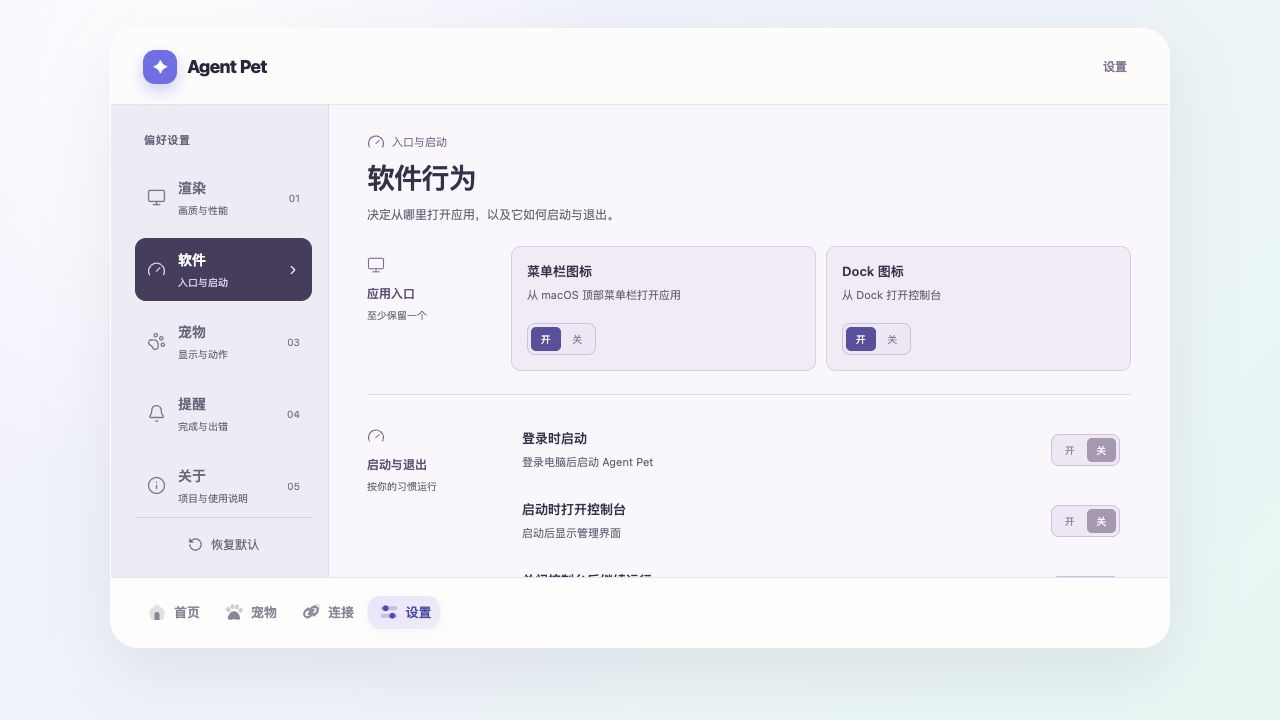
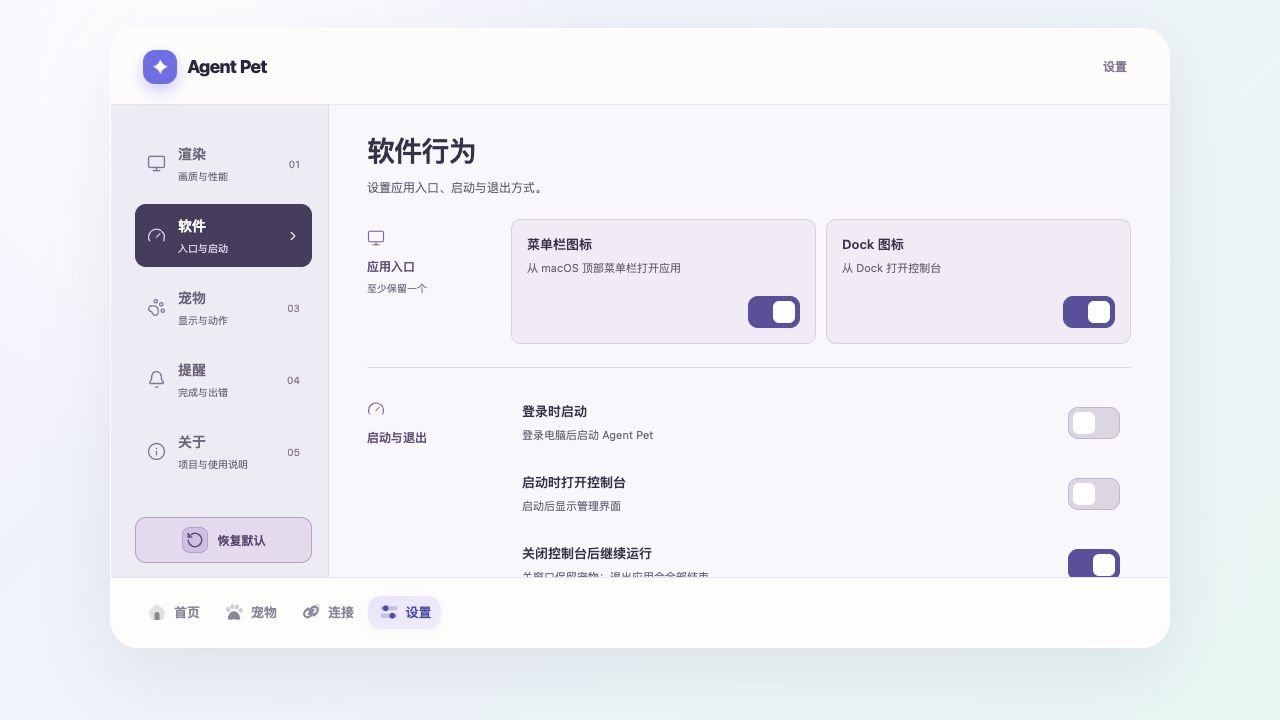
fix(prototype): simplify settings copy and controls

diff --git a/apps/desktop/prototype/settings-view.css b/apps/desktop/prototype/settings-view.css
@@ -2,21 +2,22 @@
 .preferences-page{--preferences-ink:#3f3653;--preferences-muted:#776d86;--preferences-accent:#6953aa;--preferences-line:#e4dfea;display:grid;grid-template-columns:218px minmax(0,1fr);flex:1;min-height:0;min-width:0;background:#faf8fc;color:var(--preferences-ink);overflow:hidden;font-size:14px}
 .preferences-page[hidden]{display:none!important}.preferences-page *{box-sizing:border-box}.preferences-page button,.preferences-page input{font:inherit}.preferences-page button{cursor:pointer;transition:background .16s,color .16s,border-color .16s,transform .16s}.preferences-page button:focus-visible,.preferences-page input:focus-visible,.preferences-page summary:focus-visible,.preferences-page a:focus-visible{outline:2px solid var(--preferences-accent);outline-offset:3px}
 .preferences-sidebar{display:flex;flex-direction:column;min-height:0;border-right:1px solid var(--preferences-line);background:#f0edf5;padding:27px 16px 14px 24px}
-.preferences-nav-label{font-size:11px;font-weight:650;letter-spacing:.06em;color:var(--preferences-muted);padding:0 9px;margin-bottom:18px}
+
 .preferences-nav{display:flex;flex-direction:column;gap:9px;min-height:0;overflow-y:auto;scrollbar-width:thin;padding:3px;margin:-3px}
 .preferences-nav button{display:flex;align-items:center;gap:12px;min-height:62px;text-align:left;padding:11px;border:1px solid transparent;border-radius:11px;background:transparent;color:var(--preferences-muted);flex:none}.preferences-nav button>svg:first-child{flex:none;color:#8e7c9e}.preferences-nav button>span:nth-child(2){flex:1;min-width:0}.preferences-nav strong{font-size:14px;font-weight:650;display:block}.preferences-nav small{font-size:10px;display:block;margin-top:5px;color:var(--preferences-muted)}.preferences-nav-number{font-size:10px;color:#91829f}.preferences-nav-arrow{display:none;flex:none}.preferences-nav button:hover{background:#e6dfed;color:var(--preferences-ink)}.preferences-nav button[aria-pressed=true]{background:#514368;border-color:#514368;color:#fff}.preferences-nav button[aria-pressed=true]>svg:first-child{color:#dcd0ec}.preferences-nav button[aria-pressed=true] small{color:#e1d8ed}.preferences-nav button[aria-pressed=true] .preferences-nav-number{display:none}.preferences-nav button[aria-pressed=true] .preferences-nav-arrow{display:block}
-.preferences-reset-trigger{display:flex;align-items:center;justify-content:center;gap:8px;border:0;border-top:1px solid #ded5e7;background:none;color:var(--preferences-muted);font-size:12px!important;min-height:46px;flex:none;margin-top:auto;padding:12px 5px 4px}.preferences-reset-trigger:hover{color:var(--preferences-accent)}
+.preferences-reset-trigger{display:flex;align-items:center;gap:10px;justify-content:center;min-height:46px;flex:none;margin-top:auto;padding:9px 12px;border:1px solid #bca9d1;border-radius:11px;background:#e8dff1;color:#634b7a;font-size:12px!important;font-weight:650!important}.preferences-reset-icon{display:grid;place-items:center;width:26px;height:26px;flex:none;border:1px solid #c1a9d5;border-radius:8px;background:#d7c5e8;color:#70508a}.preferences-reset-icon svg{transition:transform .3s ease}.preferences-reset-trigger:hover{background:#ded0ec;border-color:#9877b4;color:#513664}.preferences-reset-trigger:hover .preferences-reset-icon svg,.preferences-reset-trigger:focus-visible .preferences-reset-icon svg{transform:rotate(-40deg)}.preferences-reset-trigger:active{transform:translateY(1px)}
+
 .preferences-content{min-width:0;min-height:0;overflow-y:auto;overflow-x:hidden;padding:28px 38px 30px;overscroll-behavior:contain;scrollbar-width:thin;scrollbar-color:#ccc2da transparent;scrollbar-gutter:stable}
-.preferences-heading{margin:0 0 20px;max-width:800px}.preferences-heading-meta{display:flex;align-items:center;gap:7px;font-size:11px;color:#8b759d;margin-bottom:9px}.preferences-heading h1{margin:0;font-size:28px;letter-spacing:-.7px;font-weight:750;line-height:1.3}.preferences-heading>p{font-size:12px;line-height:1.7;color:var(--preferences-muted);margin:9px 0 0}.preferences-controls{max-width:800px}
-.render-presets{display:grid;grid-template-columns:repeat(3,minmax(0,1fr));gap:10px}
+.preferences-heading{margin:0 0 20px;max-width:800px}.preferences-heading h1{margin:0;font-size:28px;letter-spacing:-.7px;font-weight:750;line-height:1.3}.preferences-heading>p{font-size:12px;line-height:1.7;color:var(--preferences-muted);margin:9px 0 0}.preferences-controls{max-width:800px}
+.render-presets{margin-bottom:20px;display:grid;grid-template-columns:repeat(3,minmax(0,1fr));gap:10px}
 .render-presets>button{display:flex;flex-direction:column;align-items:flex-start;text-align:left;border:1px solid #d8cce5;border-radius:13px;padding:16px;background:#f2edf7;color:#6f587f;position:relative;min-width:0}.render-presets>button:nth-child(1){background:#edf1e9;color:#637456;border-color:#d6dfcf}.render-presets>button:nth-child(3){background:#eaf0f7;color:#627898;border-color:#d3deee}.render-presets>button:hover{border-color:#9a85b3;transform:translateY(-2px)}.render-presets>button:active{transform:translateY(0)}.render-presets>button[aria-pressed=true]{background:#514368;border-color:#514368;color:#fff}.render-preset-top{display:flex;align-items:center;justify-content:space-between;width:100%;margin-bottom:12px}.render-preset-selected{display:grid;place-items:center;width:18px;height:18px;border:1px solid currentColor;border-radius:50%;opacity:.45}.render-presets>button[aria-pressed=true] .render-preset-selected{opacity:1;background:#e9dcf9;color:#514368;border-color:#e9dcf9}.render-presets strong{font-size:17px;font-weight:650;letter-spacing:.02em}.render-preset-copy{font-size:11px;margin-top:5px;opacity:.9}.render-preset-stats{display:block;font-size:10px;margin-top:14px;white-space:nowrap}.render-preset-stats b{font-size:21px;font-weight:600;letter-spacing:-.6px;margin-right:3px}.render-preset-stats>span{margin-left:3px}
-.render-current{display:flex;align-items:center;gap:7px;font-size:11px;color:#766381;margin:12px 1px 15px}.render-current>span:last-child{color:var(--preferences-muted);margin-left:auto}.render-current-dot{width:5px;height:5px;border-radius:50%;background:#8d75a5;flex:none}
+
 .render-advanced{border:1px solid var(--preferences-line);border-radius:11px;background:#fff;margin-bottom:16px}.render-advanced summary{display:flex;align-items:center;justify-content:space-between;list-style:none;min-height:44px;padding:11px 15px;font-size:12px;font-weight:600;cursor:pointer;color:#705884}.render-advanced summary::-webkit-details-marker{display:none}.render-advanced summary svg{transition:transform .16s}.render-advanced[open] summary svg{transform:rotate(90deg)}.render-advanced>div{padding:2px 15px 16px}.render-advanced p{font-size:11px;line-height:1.8;color:var(--preferences-muted);margin:12px 0 0;max-width:600px}
 .preference-choice{display:flex;align-items:center;justify-content:space-between;gap:16px;padding:10px 0;font-size:12px}.preference-choice>[role=radiogroup]{display:flex;border:1px solid #d9d0e3;border-radius:9px;background:#f4eff8;padding:3px;gap:3px}.preference-choice button{display:flex;align-items:baseline;justify-content:center;gap:4px;background:none;border:1px solid transparent;border-radius:6px;padding:9px 13px;color:#8a759b;font-size:13px;min-width:65px}.preference-choice button small{font-size:9px}.preference-choice button[aria-checked=true]{background:#6953aa;color:#fff;border-color:#6953aa}.preference-choice button:hover{border-color:#bda9d0}
 .preference-group{display:grid;grid-template-columns:120px minmax(0,1fr);gap:24px;padding-top:22px;margin-top:23px;border-top:1px solid var(--preferences-line)}.preference-group:first-child{padding-top:0;margin-top:0;border:0}.preference-group>header{padding:10px 0;color:#8d769d}.preference-group h2{margin:8px 0 5px;font-size:12px;font-weight:650;color:#705783}.preference-group>header p{font-size:10px;line-height:1.7;margin:0;color:var(--preferences-muted)}.preference-group>div{min-width:0;display:grid;gap:4px}
-.preference-row{display:flex;align-items:center;justify-content:space-between;gap:18px;min-height:66px;border:1px solid transparent;border-radius:10px;background:none;padding:11px 10px;color:var(--preferences-ink);text-align:left;width:100%}.preference-row>span:first-child{display:grid;gap:6px;min-width:0}.preference-row strong{font-size:13px;font-weight:600;line-height:1.4}.preference-row small{font-size:11px;line-height:1.7;color:var(--preferences-muted)}.preference-row:hover:not(.is-disabled){background:#f0eaf6;border-color:#e4d8ed}.preference-row.is-disabled{cursor:default}.preference-row.is-disabled strong{color:#84758f}.preference-row.is-disabled .preference-toggle{opacity:.5}
-.preference-toggle{display:flex;flex:none;border:1px solid #d4c8df;border-radius:8px;padding:3px;gap:2px;background:#f1eaf6;width:69px;height:32px}.preference-toggle>button{display:grid;place-items:center;flex:1;min-width:0;border:0;background:none;padding:0;border-radius:5px;font-size:10px;color:#947fa7}.preference-toggle>button[aria-checked=true]{background:#6953aa;color:#fff}.preference-toggle>button:last-child[aria-checked=true]{background:#b0a2bc;color:#fff}.preference-row:active:not(.is-disabled) .preference-toggle{transform:scale(.96)}
-.preference-entry-pair{display:grid;grid-template-columns:1fr 1fr;gap:10px}.preference-entry-pair>.preference-row{flex-wrap:wrap;align-content:space-between;gap:16px;min-height:125px;border:1px solid #dfd5e8;background:#f3edf7;padding:15px}.preference-entry-pair>.preference-row>span:first-child{width:100%}.preference-entry-pair>.preference-row>span:last-child{margin-left:auto}.preference-entry-pair>.preference-row.is-disabled{background:#f3eff6}
+.preference-row{display:flex;align-items:center;justify-content:space-between;gap:18px;min-height:66px;border:1px solid transparent;border-radius:10px;background:none;padding:11px 10px;color:var(--preferences-ink);text-align:left;width:100%}.preference-row>span:first-child{display:grid;gap:6px;min-width:0}.preference-row strong{font-size:13px;font-weight:600;line-height:1.4}.preference-row small{font-size:11px;line-height:1.7;color:var(--preferences-muted)}.preference-row:hover:not(.is-disabled){background:#f0eaf6;border-color:#e4d8ed}.preference-row.is-disabled{cursor:default}.preference-row.is-disabled strong{color:#84758f}.preference-switch{display:flex;align-items:center;flex:none;width:52px;height:32px;padding:4px;border:1px solid #c9bdd7;border-radius:10px;background:#e1d9e9;color:var(--preferences-accent)}.preference-switch>span{display:block;width:22px;height:22px;border:1px solid #fff;border-radius:6px;background:#fff;transition:transform .18s ease}.preference-switch[aria-checked=true]{background:#6953aa;border-color:#6953aa}.preference-switch[aria-checked=true]>span{transform:translateX(20px)}.preference-switch:hover:not(:disabled){border-color:#8d74a8}.preference-switch:active:not(:disabled)>span{width:24px}.preference-switch[aria-checked=true]:active:not(:disabled)>span{transform:translateX(18px)}.preference-switch:disabled{opacity:.5;cursor:default}
+
+.preference-entry-pair{display:grid;grid-template-columns:1fr 1fr;gap:10px}.preference-entry-pair>.preference-row{flex-wrap:wrap;align-content:space-between;gap:16px;min-height:125px;border:1px solid #dfd5e8;background:#f3edf7;padding:15px}.preference-entry-pair>.preference-row>span:first-child{width:100%}.preference-entry-pair>.preference-row>.preference-switch{margin-left:auto}.preference-entry-pair>.preference-row.is-disabled{background:#f3eff6}
 .preference-size{display:grid;grid-template-columns:1fr auto;align-items:center;gap:17px 20px;padding:16px 20px 14px;border:1px solid #ded2e8;border-radius:12px;background:#f1eaf6;margin-bottom:25px}.preference-size label{font-size:14px;font-weight:650}.preference-size p{font-size:11px;color:var(--preferences-muted);margin:7px 0 0}.preference-size output{font-size:29px;font-weight:600;letter-spacing:-1px;color:#795b97;min-width:73px;text-align:right}.preference-size output small{font-size:13px;margin-left:3px;letter-spacing:0}.preference-size input{--range-progress:50%;grid-column:1/-1;appearance:none;-webkit-appearance:none;background:none;width:100%;height:25px;cursor:pointer;margin:0}.preference-size input::-webkit-slider-runnable-track{height:5px;border-radius:5px;background:linear-gradient(to right,#9274b1 0,#9274b1 var(--range-progress),#d7c9e4 var(--range-progress),#d7c9e4 100%)}.preference-size input::-webkit-slider-thumb{appearance:none;-webkit-appearance:none;width:18px;height:18px;margin-top:-6px;border:3px solid #faf8fc;border-radius:5px;background:#795b97;outline:1px solid #a58bba;transform:rotate(45deg)}.preference-size input::-moz-range-track{height:5px;background:#d7c9e4;border-radius:5px}.preference-size input::-moz-range-progress{height:5px;background:#9274b1}.preference-size input::-moz-range-thumb{width:13px;height:13px;border:3px solid #faf8fc;background:#795b97;border-radius:5px}.preference-scale{grid-column:1/-1;display:flex;justify-content:space-between;font-size:10px;color:#8b739e;margin-top:-9px}
 .preference-bubble-note{display:flex;align-items:center;gap:15px;border:1px solid #ddd1e8;border-radius:12px;background:#f0e9f5;padding:19px 20px;margin-bottom:25px;color:#8e6fa1}.preference-bubble-note>svg{flex:none}.preference-bubble-note>div{flex:1;min-width:0}.preference-bubble-note strong{font-size:13px;color:#715387;font-weight:650}.preference-bubble-note p{font-size:11px;color:var(--preferences-muted);line-height:1.7;margin:6px 0 0}.preference-bubble-note.is-muted{background:#f5eee7;border-color:#e6d7c5;color:#a58057}.preference-bubble-note.is-muted strong{color:#8b6841}.preference-bubble-note button{display:flex;align-items:center;gap:6px;flex:none;min-height:40px;padding:8px 10px;border:1px solid #cbbbce;background:#fff;border-radius:9px;color:#73558b;font-size:11px}
 .preferences-notice{display:flex;gap:7px;align-items:center;color:#657c69;font-size:12px;margin-top:24px}
@@ -24,10 +25,10 @@
 /* About remains a readable article, not a campaign or a desktop preview. */
 .preferences-about{max-width:720px;padding:0 0 28px;color:var(--preferences-ink);font-size:14px;line-height:1.85;overflow-wrap:anywhere}.about-document-header{border-bottom:1px solid var(--preferences-line);padding-bottom:23px;margin-bottom:28px}.about-document-header h1{font-size:32px;font-weight:750;line-height:1.2;letter-spacing:-.8px;margin:0 0 14px}.about-document-meta{display:flex;align-items:center;flex-wrap:wrap;gap:10px;font-size:11px;color:var(--preferences-muted);margin:0 0 17px}.about-version{border:1px solid #dacde4;border-radius:6px;padding:3px 7px;background:#eee5f6;color:#795c91;line-height:1.5;font-weight:600}.about-document-lead{font-size:15px;line-height:1.75;color:#6f5d7d;margin:0}.preferences-about section{margin-top:28px}.preferences-about h2{font-size:18px;font-weight:650;line-height:1.5;letter-spacing:-.2px;margin:0 0 12px;color:#655075}.preferences-about section p{margin:12px 0;color:#77687f}.preferences-about ul,.preferences-about ol{padding-left:22px;margin:14px 0;color:#77687f}.preferences-about li{padding-left:3px;margin:9px 0}.preferences-about strong{color:#665076;font-weight:600}.about-document-links a{display:inline-flex;align-items:center;gap:10px;color:var(--preferences-accent);text-decoration:underline;text-underline-offset:4px;min-height:40px;font-weight:600}.about-document-links a:hover{color:#4e337a}.about-document-links .ui-icon{width:15px;height:15px}.about-document-links p{font-size:12px}
 @media(max-width:1050px){.preferences-page{grid-template-columns:190px minmax(0,1fr)}.preferences-sidebar{padding-left:16px}.preferences-content{padding:26px}.preferences-nav button{gap:10px}.preferences-nav-number{display:none}.preference-group{grid-template-columns:94px minmax(0,1fr);gap:12px}.preference-choice button{padding:9px;min-width:55px}.render-presets>button{padding:13px}.preference-entry-pair{grid-template-columns:1fr}.preference-entry-pair>.preference-row{flex-wrap:nowrap;min-height:74px;gap:12px}.preference-entry-pair>.preference-row>span:first-child{width:auto}}
-@media(max-width:700px){.preferences-page{display:flex;flex-direction:column}.preferences-sidebar{flex:none;display:block;padding:12px 16px 0;background:#f0edf5;border-right:0;border-bottom:1px solid var(--preferences-line)}.preferences-nav-label{display:none}.preferences-nav{flex-direction:row;overflow-x:auto;overflow-y:hidden;gap:4px;padding:3px 0 10px;margin:0}.preferences-nav button{min-height:44px;padding:9px 5px;flex:1 1 0;min-width:0;justify-content:center;gap:5px;border-radius:9px}.preferences-nav small,.preferences-nav-number,.preferences-nav-arrow,.preferences-nav button[aria-pressed=true] .preferences-nav-arrow{display:none}.preferences-nav strong{font-size:12px}.preferences-nav button>svg:first-child{width:14px;height:14px}.preferences-reset-trigger{position:absolute;right:18px;bottom:11px;z-index:1;font-size:10px!important;border:1px solid #dfd3e7;border-radius:8px;min-height:30px;padding:6px 8px;background:#faf8fc;margin:0}.preferences-page{position:relative}.preferences-content{flex:1;padding:22px 20px 54px}.preferences-heading{margin-bottom:23px}.preferences-heading h1{font-size:25px}.preferences-heading>p{font-size:12px}.render-presets{gap:7px}.render-presets>button{padding:12px 10px}.render-preset-top{margin-bottom:16px}.render-preset-top>svg{width:20px;height:20px}.render-presets strong{font-size:15px}.render-preset-copy{font-size:10px}.render-preset-stats{font-size:8px;margin-top:17px}.render-preset-stats b{font-size:19px}.render-preset-stats>span{margin-left:0}.render-current{flex-wrap:wrap;font-size:10px;margin-bottom:20px}.render-current>span:last-child{font-size:10px}.preference-group{grid-template-columns:1fr;gap:8px;margin-top:23px;padding-top:20px}.preference-group>header{display:flex;align-items:center;gap:7px;padding:0 0 4px}.preference-group h2{margin:0;font-size:12px}.preference-group>header p{margin-left:auto;font-size:10px}.preference-group>header svg{width:16px;height:16px}.preference-row{padding:11px 0;min-height:72px;gap:12px}.preference-row strong{font-size:13px}.preference-row small{font-size:11px}.preference-entry-pair{grid-template-columns:1fr 1fr}.preference-entry-pair>.preference-row{flex-wrap:wrap;padding:13px;min-height:150px}.preference-entry-pair>.preference-row>span:first-child{width:100%}.preference-entry-pair>.preference-row>span:last-child{margin-top:auto}.preference-choice{flex-wrap:wrap;gap:10px}.preference-choice>[role=radiogroup]{width:100%}.preference-choice button{flex:1}.preference-bubble-note{flex-wrap:wrap;padding:16px}.preference-bubble-note button{margin-left:36px}.preference-size{padding:16px;margin-bottom:24px}.preferences-about{font-size:13px}.about-document-header h1{font-size:29px}.about-document-lead{font-size:14px}}
-@media(min-width:701px) and (max-height:650px){.preferences-sidebar{padding-top:18px}.preferences-nav-label{margin-bottom:12px}.preferences-nav{gap:6px}.preferences-nav button{min-height:52px;padding:9px}.preferences-content{padding-top:22px}.preferences-heading{margin-bottom:21px}}
+@media(max-width:700px){.preferences-page{display:flex;flex-direction:column}.preferences-sidebar{flex:none;display:flex;flex-direction:row;align-items:flex-start;gap:6px;padding:12px 16px 0;background:#f0edf5;border-right:0;border-bottom:1px solid var(--preferences-line)}.preferences-nav{flex:1;min-width:0;flex-direction:row;overflow-x:auto;overflow-y:hidden;gap:4px;padding:3px 0 10px;margin:0}.preferences-nav button{min-height:44px;padding:9px 4px;flex:1 1 0;min-width:0;justify-content:center;gap:5px;border-radius:9px}.preferences-nav small,.preferences-nav-number,.preferences-nav-arrow,.preferences-nav button[aria-pressed=true] .preferences-nav-arrow{display:none}.preferences-nav strong{font-size:12px}.preferences-nav button>svg:first-child{width:14px;height:14px}.preferences-reset-trigger{position:static;align-self:flex-start;width:44px;height:44px;flex:none;border:1px solid #bca9d1;border-radius:10px;min-height:44px;padding:0;background:#e8dff1;margin:3px 0 10px}.preferences-reset-trigger>span:last-child{display:none}.preferences-page{position:relative}.preferences-content{flex:1;padding:22px 20px 54px}.preferences-heading{margin-bottom:20px}.preferences-heading h1{font-size:25px}.preferences-heading>p{font-size:12px}.render-presets{gap:7px;margin-bottom:16px}.render-presets>button{padding:12px 10px}.render-preset-top{margin-bottom:10px}.render-preset-top>svg{width:20px;height:20px}.render-presets strong{font-size:15px}.render-preset-copy{font-size:10px}.render-preset-stats{font-size:8px;margin-top:12px}.render-preset-stats b{font-size:19px}.render-preset-stats>span{margin-left:0}.preference-group{grid-template-columns:1fr;gap:8px;margin-top:23px;padding-top:20px}.preference-group>header{display:flex;align-items:center;gap:7px;padding:0 0 4px}.preference-group h2{margin:0;font-size:12px}.preference-group>header p{margin-left:auto;font-size:10px}.preference-group>header svg{width:16px;height:16px}.preference-row{padding:11px 0;min-height:72px;gap:12px}.preference-row strong{font-size:13px}.preference-row small{font-size:11px}.preference-entry-pair{grid-template-columns:1fr 1fr}.preference-entry-pair>.preference-row{flex-wrap:wrap;padding:13px;min-height:150px}.preference-entry-pair>.preference-row>span:first-child{width:100%}.preference-entry-pair>.preference-row>.preference-switch{margin-top:auto}.preference-choice{flex-wrap:wrap;gap:10px}.preference-choice>[role=radiogroup]{width:100%}.preference-choice button{flex:1}.preference-bubble-note{flex-wrap:wrap;padding:16px}.preference-bubble-note button{margin-left:36px}.preference-size{padding:16px;margin-bottom:24px}.preferences-about{font-size:13px}.about-document-header h1{font-size:29px}.about-document-lead{font-size:14px}}
+@media(min-width:701px) and (max-height:650px){.preferences-sidebar{padding-top:18px}.preferences-nav{gap:6px}.preferences-nav button{min-height:52px;padding:9px}.preferences-content{padding-top:22px}.preferences-heading{margin-bottom:21px}}
 @media(prefers-reduced-motion:reduce){.preferences-page *{transition:none!important}}
-@media(forced-colors:active){.preferences-page,.preferences-sidebar,.preferences-content,.preferences-reset-dialog{background:Canvas;color:CanvasText}.preferences-page button,.preference-toggle,.preference-size,.render-advanced{border:1px solid ButtonText;background:Canvas;color:CanvasText}.preferences-nav button[aria-pressed=true],.render-presets>button[aria-pressed=true],.preference-choice button[aria-checked=true],.preference-toggle>button[aria-checked=true]{background:Highlight;color:HighlightText}.preferences-page p,.preferences-page small,.preferences-page strong{color:CanvasText}.preference-size input{appearance:auto;-webkit-appearance:auto;accent-color:Highlight}}
+@media(forced-colors:active){.preferences-page,.preferences-sidebar,.preferences-content,.preferences-reset-dialog{background:Canvas;color:CanvasText}.preferences-page button,.preference-switch,.preference-size,.render-advanced{border:1px solid ButtonText;background:Canvas;color:CanvasText}.preferences-nav button[aria-pressed=true],.render-presets>button[aria-pressed=true],.preference-choice button[aria-checked=true],.preference-switch[aria-checked=true]{background:Highlight;color:HighlightText}.preferences-page p,.preferences-page small,.preferences-page strong{color:CanvasText}.preference-size input{appearance:auto;-webkit-appearance:auto;accent-color:Highlight}}
 /* Preserve the existing short-window frame behavior. */
 @media(max-height:700px){.prototype-page:has(.preferences-page:not([hidden])){padding:28px}.game-shell:has(.preferences-page:not([hidden])){height:calc(100dvh - 56px)}}
 @media(max-height:700px) and (max-width:720px){.prototype-page:has(.preferences-page:not([hidden])){padding:12px}.game-shell:has(.preferences-page:not([hidden])){height:calc(100dvh - 24px)}}
@@ -35,3 +36,8 @@
 .render-advanced+.preference-group{margin-top:0;padding-top:12px}
 
 @media(max-width:360px){.preferences-nav button>svg:first-child{display:none}}
+
+@media(max-width:700px){.preferences-reset-trigger{gap:0}.preferences-reset-icon{width:26px;height:26px;background:none;border:0}.preferences-reset-icon svg{width:15px;height:15px}}
+@media(forced-colors:active){.preference-switch>span,.preferences-reset-icon{background:Canvas;border:1px solid ButtonText;color:ButtonText}}
+
+@media(max-width:700px){.preferences-page[data-section=render] .preference-row{min-height:60px}}

diff --git a/apps/desktop/prototype/settings-view.tsx b/apps/desktop/prototype/settings-view.tsx
@@ -5,12 +5,12 @@ import { trapMenuFocus } from './menu-components.js';
 import { Icon } from './components/icons.js';
 import './settings-view.css';
 declare const __DESKTOP_VERSION__:string;
-const sections=[{id:'render',label:'渲染',title:'场景渲染',copy:'在流畅、清晰和低耗电之间，找到适合你的选择。',detail:'画质与性能',icon:Monitor},{id:'app',label:'软件',title:'软件行为',copy:'决定从哪里打开应用，以及它如何启动与退出。',detail:'入口与启动',icon:Gauge},{id:'pet',label:'宠物',title:'桌面宠物',copy:'调整小伙伴在桌面上的大小、出现方式和反馈。',detail:'显示与动作',icon:PawPrint},{id:'reminders',label:'提醒',title:'任务提醒',copy:'选择哪些任务结果需要小伙伴告诉你。',detail:'完成与出错',icon:Bell},{id:'about',label:'关于',title:'关于 Agent Pet',copy:'',detail:'项目与使用说明',icon:Info}] as const;
+const sections=[{id:'render',label:'渲染',title:'场景渲染',copy:'选择画质档位，或单独调整帧率与清晰度。',detail:'画质与性能',icon:Monitor},{id:'app',label:'软件',title:'软件行为',copy:'设置应用入口、启动与退出方式。',detail:'入口与启动',icon:Gauge},{id:'pet',label:'宠物',title:'桌面宠物',copy:'调整宠物大小、显示方式和动画。',detail:'显示与动作',icon:PawPrint},{id:'reminders',label:'提醒',title:'任务提醒',copy:'选择需要显示的任务提醒。',detail:'完成与出错',icon:Bell},{id:'about',label:'关于',title:'关于 Agent Pet',copy:'',detail:'项目与使用说明',icon:Info}] as const;
 type Section=typeof sections[number]['id'];
 const defaults={visible:true,size:100,bubbles:true,reduced:false,completed:true,error:true,login:false,console:false,tray:true,dock:true,background:true,offline:true,names:true,topmost:true,fps:60,resolution:100,pauseHidden:true};
 type Preferences=typeof defaults;
 type BooleanKey={[K in keyof Preferences]:Preferences[K] extends boolean?K:never}[keyof Preferences];
-const presets=[{name:'省电',fps:30,resolution:75,copy:'轻量陪伴',icon:Leaf},{name:'均衡',fps:60,resolution:100,copy:'日常推荐',icon:Gauge},{name:'清晰',fps:60,resolution:150,copy:'细节优先',icon:Sparkles}] as const;
+const presets=[{name:'省电',fps:30,resolution:75,copy:'减少耗电',icon:Leaf},{name:'均衡',fps:60,resolution:100,copy:'日常推荐',icon:Gauge},{name:'清晰',fps:60,resolution:150,copy:'细节优先',icon:Sparkles}] as const;
 export function SettingsView({visible}:{visible:boolean}) {
  const scrollArea=useRef<HTMLDivElement>(null);const dialog=useRef<HTMLDialogElement>(null);const resetTrigger=useRef<HTMLButtonElement>(null);
  const [section,setSection]=useState<Section>('render');const [values,setValues]=useState(defaults);const [resetting,setResetting]=useState(false);const [notice,setNotice]=useState('');
@@ -22,28 +22,28 @@ export function SettingsView({visible}:{visible:boolean}) {
  function toggle(key:BooleanKey,title:string,copy:string,disabled=false){return <PreferenceSwitch title={title} copy={copy} checked={values[key]} disabled={disabled} onChange={()=>update(key,!values[key])}/>;}
  function chooseSection(value:Section,button:HTMLButtonElement){setSection(value);setNotice('');scrollArea.current?.scrollTo({top:0});const nav=button.parentElement;if(nav){const item=button.getBoundingClientRect(),bounds=nav.getBoundingClientRect();if(item.top<bounds.top)nav.scrollTop+=item.top-bounds.top;else if(item.bottom>bounds.bottom)nav.scrollTop+=item.bottom-bounds.bottom;if(item.left<bounds.left)nav.scrollLeft+=item.left-bounds.left;else if(item.right>bounds.right)nav.scrollLeft+=item.right-bounds.right;}}
  return <section hidden={!visible} className="preferences-page" aria-label="应用偏好" data-section={section} onKeyDown={e=>{if(e.key.startsWith('Arrow'))e.stopPropagation();}}>
-  <aside className="preferences-sidebar"><span className="preferences-nav-label">偏好设置</span><nav className="preferences-nav" aria-label="设置分类">{sections.map((item,i)=>{const Glyph=item.icon;return <button key={item.id} aria-pressed={section===item.id} onClick={e=>chooseSection(item.id,e.currentTarget)}><Glyph size={19} strokeWidth={1.7}/><span><strong>{item.label}</strong><small>{item.detail}</small></span><span className="preferences-nav-number" aria-hidden="true">{String(i+1).padStart(2,'0')}</span><ChevronRight size={14} className="preferences-nav-arrow"/></button>;})}</nav><button ref={resetTrigger} className="preferences-reset-trigger" onClick={()=>setResetting(true)}><RotateCcw size={15}/>恢复默认</button></aside>
+  <aside className="preferences-sidebar"><nav className="preferences-nav" aria-label="设置分类">{sections.map((item,i)=>{const Glyph=item.icon;return <button key={item.id} aria-pressed={section===item.id} onClick={e=>chooseSection(item.id,e.currentTarget)}><Glyph size={19} strokeWidth={1.7}/><span><strong>{item.label}</strong><small>{item.detail}</small></span><span className="preferences-nav-number" aria-hidden="true">{String(i+1).padStart(2,'0')}</span><ChevronRight size={14} className="preferences-nav-arrow"/></button>;})}</nav><button ref={resetTrigger} className="preferences-reset-trigger" aria-label="恢复默认" title="恢复默认" onClick={()=>setResetting(true)}><span className="preferences-reset-icon" aria-hidden="true"><RotateCcw size={18}/></span><span>恢复默认</span></button></aside>
   <div ref={scrollArea} className="preferences-content">
-   {section!=='about'&&<header className="preferences-heading"><div className="preferences-heading-meta"><selected.icon size={18} strokeWidth={1.6}/><span>{selected.detail}</span></div><h1>{selected.title}</h1><p>{selected.copy}</p></header>}
+   {section!=='about'&&<header className="preferences-heading"><h1>{selected.title}</h1><p>{selected.copy}</p></header>}
    {section==='about'?<article className="preferences-about" aria-label="关于 Agent Pet"><header className="about-document-header"><h1>Agent Pet</h1><p className="about-document-meta"><span className="about-version">版本 {__DESKTOP_VERSION__}</span><span aria-hidden="true">·</span>桌面宠物项目</p><p className="about-document-lead">通过 3D 宠物的动作，观察 AI Agent 的工作状态。</p></header><section><h2>项目简介</h2><p>Agent Pet 是一个运行在本机的桌面宠物项目。当 Agent 工作、完成任务或遇到错误时，宠物会用不同的状态作出反馈。</p><p>它的目标是让桌面多一个有趣的小伙伴，也让你更容易知道 Agent 是否需要关注。</p></section><section><h2>当前进展</h2><p>目前以 <strong>macOS</strong> 和 <strong>pi</strong> 的本机接入为起点。其他 Agent 的支持正在规划中，项目不会只围绕 pi 设计。</p><ul><li>连接配置：管理本机 Agent 的配置位置与名称。</li><li>宠物展示：用形象与动画表达任务状态。</li><li>后续方向：更多 Agent、可导入的宠物，以及更完整的场景交互。</li></ul></section><section><h2>使用方式</h2><ol><li><strong>配置连接。</strong> 在连接页添加 Agent，检查配置是否可用。</li><li><strong>选择宠物。</strong> 为 Agent 选择使用的形象。</li><li><strong>调整偏好。</strong> 在设置中选择显示、提醒和运行方式。</li></ol><p>设计上尽量减少专业操作，让没有技术背景的人也能轻松使用。</p></section><section><h2>数据与隐私</h2><p>项目观察 Agent 的名称与状态，不读取对话正文，也不代替你启动、审批或控制 Agent。</p></section><section className="about-document-links"><h2>项目链接</h2><a href="https://github.com/Gogo-Bytes/agent-pet" target="_blank" rel="noopener noreferrer">Gogo-Bytes / agent-pet<Icon name="right"/></a><p>源码、项目文档与问题反馈都在 GitHub 仓库中。</p></section></article>:<div className="preferences-controls">
     {section==='render'&&<>
      <div className="render-presets" role="group" aria-label="画质档位">{presets.map(item=>{const Glyph=item.icon;return <button key={item.name} aria-pressed={preset===item} onClick={()=>{setNotice('');setValues(current=>({...current,fps:item.fps,resolution:item.resolution}));}}><span className="render-preset-top"><Glyph size={23} strokeWidth={1.5}/><span className="render-preset-selected">{preset===item?<Check size={14}/>:null}</span></span><strong>{item.name}</strong><span className="render-preset-copy">{item.copy}</span><span className="render-preset-stats"><b>{item.fps}</b> FPS <span>· {item.resolution}%</span></span></button>;})}</div>
-     <div className="render-current" role="status"><span className="render-current-dot"/>{preset?.name??'自定义'}<span>{values.fps} FPS / {values.resolution}% 清晰度</span></div>
+
      <details className="render-advanced"><summary>精细调整<ChevronRight size={16}/></summary><div><MenuChoice label="帧率上限" values={[30,60,120]} value={values.fps} suffix="FPS" onChange={value=>update('fps',value)}/><MenuChoice label="渲染清晰度" values={[75,100,150]} value={values.resolution} suffix="%" onChange={value=>update('resolution',value)}/><p>更高的帧率和清晰度会增加耗电与发热。清晰度不改变视角或窗口大小。</p></div></details>
-     <MenuGroup title="资源使用" copy="让陪伴轻一些" icon={Leaf}>{toggle('pauseHidden','隐藏时暂停渲染','宠物隐藏或场景不可见时减少资源占用')}</MenuGroup>
+     <MenuGroup title="资源使用" icon={Leaf}>{toggle('pauseHidden','隐藏时暂停渲染','宠物隐藏或场景不可见时减少资源占用')}</MenuGroup>
     </>}
-    {section==='app'&&<><MenuGroup title="应用入口" copy="至少保留一个" icon={Monitor}><div className="preference-entry-pair">{toggle('tray','菜单栏图标',!values.dock?'Dock 已隐藏，保留此入口':'从 macOS 顶部菜单栏打开应用',!values.dock)}{toggle('dock','Dock 图标',!values.tray?'菜单栏已隐藏，保留此入口':'从 Dock 打开控制台',!values.tray)}</div></MenuGroup><MenuGroup title="启动与退出" copy="按你的习惯运行" icon={Gauge}>{toggle('login','登录时启动','登录电脑后启动 Agent Pet')}{toggle('console','启动时打开控制台','启动后显示管理界面')}{toggle('background','关闭控制台后继续运行',values.background?'关窗口保留宠物；退出应用会全部结束':'关闭窗口时，应用和宠物一起退出')}</MenuGroup></>}
-    {section==='pet'&&<><div className="preference-size"><div><label htmlFor="preference-size">宠物大小</label><p>调整桌面上宠物的显示比例</p></div><output htmlFor="preference-size">{values.size}<small>%</small></output><input id="preference-size" type="range" min="60" max="140" step="5" value={values.size} style={{'--range-progress':`${(values.size-60)/80*100}%`} as CSSProperties} onChange={e=>update('size',Number(e.target.value))}/><div className="preference-scale"><span>60% · 小</span><span>100%</span><span>140% · 大</span></div></div><MenuGroup title="桌面显示" copy="出现与层级" icon={PawPrint}>{toggle('visible','宠物常驻桌面','关闭后可从应用入口重新显示')}{toggle('offline','Agent 未启动时显示',values.visible?'没有 Agent 运行时，也留在桌面':'开启“宠物常驻桌面”后生效',!values.visible)}{toggle('names','显示宠物名称','在宠物旁显示名称')}{toggle('topmost','始终置顶','显示在其他窗口上方')}</MenuGroup><MenuGroup title="动作与气泡" copy="轻松的反馈" icon={Sparkles}>{toggle('bubbles','显示气泡',values.bubbles?'提醒通过宠物气泡显示':'任务提醒暂停显示，偏好仍会保留')}{toggle('reduced','减少动画','保留状态变化，减少持续动作')}</MenuGroup></>}
-    {section==='reminders'&&<><div className={`preference-bubble-note ${!values.bubbles?'is-muted':''}`}><Bell size={21} strokeWidth={1.5}/><div><strong>{values.bubbles?'通过宠物气泡提醒':'气泡已关闭'}</strong><p>{values.bubbles?'提醒显示在宠物旁，不会打断你的操作。':'下面的提醒暂不显示，选择会保留。'}</p></div>{!values.bubbles&&<button onClick={()=>{update('bubbles',true);requestAnimationFrame(()=>scrollArea.current?.querySelector<HTMLElement>('[role=radio][aria-checked=true]')?.focus({preventScroll:true}));}}>开启气泡<ArrowRight size={15}/></button>}</div><MenuGroup title="任务结果" copy="选择提醒类型" icon={Check}>{toggle('completed','任务完成','任务完成时，显示结果提醒')}{toggle('error','任务出错','任务出错时，提醒你查看')}</MenuGroup></>}
+    {section==='app'&&<><MenuGroup title="应用入口" copy="至少保留一个" icon={Monitor}><div className="preference-entry-pair">{toggle('tray','菜单栏图标',!values.dock?'Dock 已隐藏，保留此入口':'从 macOS 顶部菜单栏打开应用',!values.dock)}{toggle('dock','Dock 图标',!values.tray?'菜单栏已隐藏，保留此入口':'从 Dock 打开控制台',!values.tray)}</div></MenuGroup><MenuGroup title="启动与退出" icon={Gauge}>{toggle('login','登录时启动','登录电脑后启动 Agent Pet')}{toggle('console','启动时打开控制台','启动后显示管理界面')}{toggle('background','关闭控制台后继续运行',values.background?'关窗口保留宠物；退出应用会全部结束':'关闭窗口时，应用和宠物一起退出')}</MenuGroup></>}
+    {section==='pet'&&<><div className="preference-size"><div><label htmlFor="preference-size">宠物大小</label><p>调整桌面上宠物的显示比例</p></div><output htmlFor="preference-size">{values.size}<small>%</small></output><input id="preference-size" type="range" min="60" max="140" step="5" value={values.size} style={{'--range-progress':`${(values.size-60)/80*100}%`} as CSSProperties} onChange={e=>update('size',Number(e.target.value))}/><div className="preference-scale"><span>60% · 小</span><span>100%</span><span>140% · 大</span></div></div><MenuGroup title="桌面显示" icon={PawPrint}>{toggle('visible','宠物常驻桌面','关闭后可从应用入口重新显示')}{toggle('offline','Agent 未启动时显示',values.visible?'没有 Agent 运行时，也留在桌面':'开启“宠物常驻桌面”后生效',!values.visible)}{toggle('names','显示宠物名称','在宠物旁显示名称')}{toggle('topmost','始终置顶','显示在其他窗口上方')}</MenuGroup><MenuGroup title="动作与气泡" icon={Sparkles}>{toggle('bubbles','显示气泡',values.bubbles?'提醒通过宠物气泡显示':'任务提醒暂停显示，偏好仍会保留')}{toggle('reduced','减少动画','保留状态变化，减少持续动作')}</MenuGroup></>}
+    {section==='reminders'&&<><div className={`preference-bubble-note ${!values.bubbles?'is-muted':''}`}><Bell size={21} strokeWidth={1.5}/><div><strong>{values.bubbles?'通过宠物气泡提醒':'气泡已关闭'}</strong><p>{values.bubbles?'提醒显示在宠物旁，不会打断你的操作。':'下面的提醒暂不显示，选择会保留。'}</p></div>{!values.bubbles&&<button onClick={()=>{update('bubbles',true);requestAnimationFrame(()=>scrollArea.current?.querySelector<HTMLElement>('[role=switch]:not([disabled])')?.focus({preventScroll:true}));}}>开启气泡<ArrowRight size={15}/></button>}</div><MenuGroup title="任务结果" icon={Check}>{toggle('completed','任务完成','任务完成时，显示结果提醒')}{toggle('error','任务出错','任务出错时，提醒你查看')}</MenuGroup></>}
    </div>}
    {notice&&<p className="preferences-notice" role="status"><Check size={15}/>{notice}</p>}
   </div>
   {resetting&&<dialog ref={dialog} className="preferences-reset-dialog" aria-labelledby="preferences-reset-title" onKeyDown={trapMenuFocus} onCancel={e=>{e.preventDefault();endReset();}}><div className="preferences-reset-art"><RotateCcw size={24}/></div><h2 id="preferences-reset-title">恢复默认偏好？</h2><p>渲染、软件、宠物与提醒设置将恢复默认。已添加的连接和宠物配置会保留。</p><div><button autoFocus onClick={endReset}>取消</button><button className="preferences-reset-confirm" onClick={()=>{setValues(defaults);setNotice('所有偏好已恢复默认。');endReset();}}>确认恢复<Check size={16}/></button></div></dialog>}
  </section>;
 }
-function MenuGroup({title,copy,icon:Glyph,children}:{title:string;copy:string;icon:LucideIcon;children:ReactNode}){return <section className="preference-group" aria-label={title}><header><Glyph size={18} strokeWidth={1.5}/><h2>{title}</h2><p>{copy}</p></header><div>{children}</div></section>;}
+function MenuGroup({title,copy,icon:Glyph,children}:{title:string;copy?:string;icon:LucideIcon;children:ReactNode}){return <section className="preference-group" aria-label={title}><header><Glyph size={18} strokeWidth={1.5}/><h2>{title}</h2>{copy&&<p>{copy}</p>}</header><div>{children}</div></section>;}
 function PreferenceSwitch({title,copy,checked,disabled,onChange}:{title:string;copy:string;checked:boolean;disabled:boolean;onChange:()=>void}){
  const description=useId();
- return <div className={`preference-row ${disabled?'is-disabled':''}`}><span><strong>{title}</strong><small id={description}>{copy}</small></span><div className="preference-toggle" role="radiogroup" aria-label={title} aria-describedby={description} aria-disabled={disabled}>{[true,false].map((value,i)=><button key={String(value)} role="radio" aria-checked={checked===value} disabled={disabled} tabIndex={checked===value?0:-1} onClick={()=>{if(checked!==value)onChange();}} onKeyDown={e=>{if(['ArrowLeft','ArrowRight','ArrowUp','ArrowDown','Home','End'].includes(e.key)){e.preventDefault();e.stopPropagation();const next=e.key==='Home'?true:e.key==='End'?false:!value;if(checked!==next)onChange();(e.currentTarget.parentElement?.children[next?0:1] as HTMLElement)?.focus({preventScroll:true});}}}>{i===0?'开':'关'}</button>)}</div></div>;
+ return <div className={`preference-row ${disabled?'is-disabled':''}`}><span><strong>{title}</strong><small id={description}>{copy}</small></span><button className="preference-switch" role="switch" aria-label={title} aria-describedby={description} aria-checked={checked} disabled={disabled} onClick={onChange}><span aria-hidden="true"/></button></div>;
 }
 function MenuChoice({label,values,value,suffix,onChange}:{label:string;values:number[];value:number;suffix:string;onChange:(value:number)=>void}){return <div className="preference-choice"><span>{label}</span><div role="radiogroup" aria-label={label}>{values.map((option,i)=><button key={option} role="radio" aria-checked={value===option} tabIndex={value===option?0:-1} onClick={()=>onChange(option)} onKeyDown={e=>{if(['ArrowLeft','ArrowRight','ArrowUp','ArrowDown','Home','End'].includes(e.key)){e.preventDefault();e.stopPropagation();const index=e.key==='Home'?0:e.key==='End'?values.length-1:(i+(['ArrowLeft','ArrowUp'].includes(e.key)?values.length-1:1))%values.length;onChange(values[index]!);(e.currentTarget.parentElement?.children[index] as HTMLElement)?.focus({preventScroll:true});}}}>{option}<small>{suffix}</small></button>)}</div></div>;}

diff --git a/docs/CONFIGURATION-UI-REVIEW.md b/docs/CONFIGURATION-UI-REVIEW.md
@@ -10,7 +10,7 @@
 
 连接桌面为“配置选择菜单 + 当前详情”，窄窗口选择后进入详情并提供返回。选择菜单显示名称、类型、短位置与检查图形，完整位置及修复操作集中在当前详情。扫描与手动添加常驻同权重入口。扫描结果仍按目标区分安装/项目；添加保留命名确认、完成页和返回。
 
-设置为固定分类目录 + 独立滚动的内容区。画质用三档选择带，手调使用真实单选分段；大小使用数值与滑轨；布尔偏好使用可直接点选的“开 / 关”。软件入口并排比较，其他选项按目的分组。关于保留博客 / README 文章、版本、介绍、进展、使用方法、隐私和 GitHub 链接。
+设置为固定分类目录 + 独立滚动的内容区。画质用三档选择带，手调使用真实单选分段；大小使用数值与滑轨；布尔偏好使用无文字开关，功能名称与必要依赖说明位于控件外。软件入口并排比较，其他选项按目的分组。关于保留博客 / README 文章、版本、介绍、进展、使用方法、隐私和 GitHub 链接。
 
 ## 实际研究来源
 
@@ -90,3 +90,16 @@ Main 实看 1280×720、1280×800、1024×600、1280×480、390×844，以及最
 - 最终验收页浏览器 console error：0。
 
 验证只覆盖本轮 UI 原型，不升级 M2–M5、安全 guard 或真实系统设置的状态。无新依赖、无推送。
+
+## 2026-10-14 · 六条浏览器批注后的精简
+
+此节覆盖前述分段开关、重复摘要和恢复入口的实现；此前操作记录保留为上一阶段证据。
+
+- 删除“让陪伴轻一些”“轻量陪伴”等情感类辅助文案，分组保留功能名称；“至少保留一个”等必要依赖提示保留。
+- 布尔偏好改为无文字滑动开关；保留设置名称、说明、`role=switch`、`aria-checked` 和禁用状态。Space / Enter 可切换，单选参数的方向键行为保留。
+- 删除标题上方的分类副标题、左侧“偏好设置”和重复画质摘要。实际 FPS 与清晰度仍在档位与精细调整中可见。
+- 恢复默认改为带图标底座的实体菜单操作，hover / focus 提供短促旋转、按下反馈；没有渐变或厚底阴影。窄屏使用分类栏上的独立 44px 图标按钮，具有“恢复默认”辅助名称与 tooltip，避免遮住正文开关。
+
+Main 实看宽窗口和 390×720 窄窗口，复验 Space / Enter 切换、菜单栏/Dock 入口保护、恢复取消/确认/Esc及返回焦点。窄屏开关下沿 550px、正文下沿 560px，恢复入口在 y=92…136，二者不重叠；五分类保留。实际截图更新为 settings-render.jpg、settings-app.jpg 和 settings-narrow.png。本轮仅设置内容区，未改共享框架或真实行为。
+
+独立 Product Test subagent 本轮只读检查三张更新截图与源码，确认六条批注已落实，并发现“开启气泡”后的回焦仍指向旧单选控件。Main 改为聚焦首个可用提醒开关，实际复验 activeElement 为“任务完成” switch，Tab 后为“任务出错” switch。独立检查未操作共享浏览器。最终 `pnpm typecheck`、原型 Vite 构建与 `git diff --check` 通过；视觉效果继续由用户验收。
